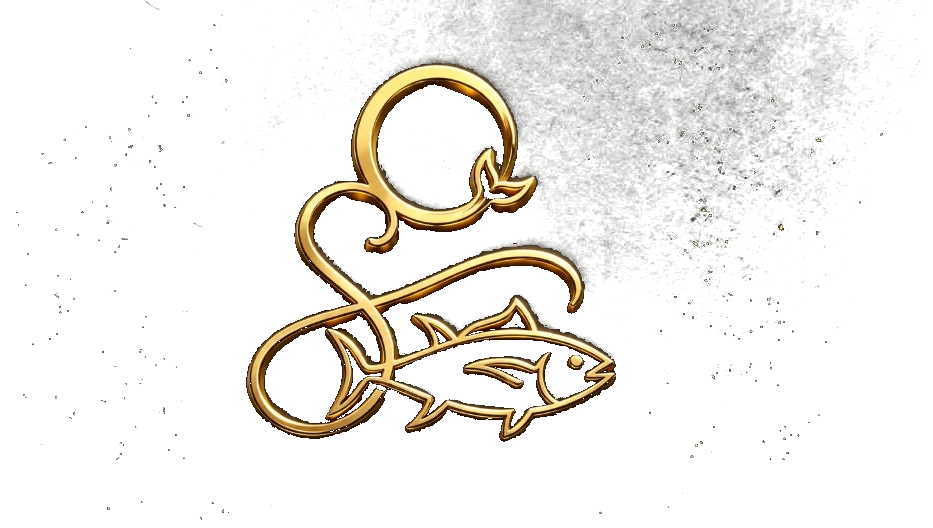
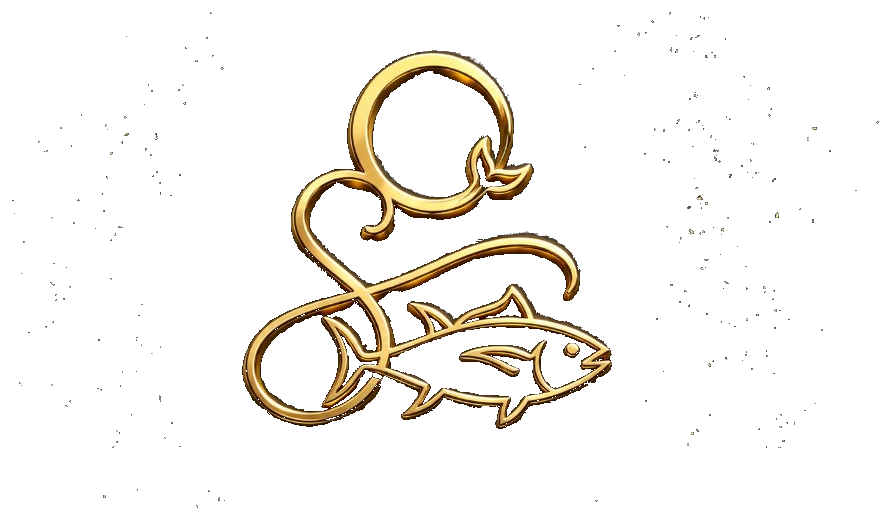
Clear black plate from the mark and add rising gold sparks.
Keep the 3D orbit, use gold-only glow, and let soft sparks lift off the emblem.

Changed region(s): [[0.2424, 0.0, 0.9091, 0.8372], [0.8182, 0.4031, 0.8485, 0.4341], [0.7879, 0.4961, 0.8182, 0.5271]]

diff --git a/src/app/globals.css b/src/app/globals.css
@@ -110,11 +110,13 @@ body {
   height: var(--mark-h);
   background: transparent;
   transform-style: preserve-3d;
+  overflow: visible;
   animation: brand-mark-orbit 6.4s cubic-bezier(0.45, 0.05, 0.55, 0.95) infinite;
+  /* Gold glow only — no black plate / dark blob */
   filter:
-    drop-shadow(0 14px 22px rgba(0, 0, 0, 0.58))
-    drop-shadow(0 4px 0 rgba(70, 40, 5, 0.42))
-    drop-shadow(0 0 26px rgba(224, 168, 64, 0.48));
+    drop-shadow(0 0 10px rgba(224, 168, 64, 0.45))
+    drop-shadow(0 0 22px rgba(255, 190, 80, 0.28))
+    drop-shadow(0 6px 14px rgba(196, 140, 40, 0.22));
 }
 
 .brand-mark--header .brand-mark__stage {
@@ -145,9 +147,9 @@ body {
   --mark-w: clamp(7.5rem, 20vw, 11rem);
   --mark-h: clamp(4.2rem, 11.2vw, 6.2rem);
   filter:
-    drop-shadow(0 16px 30px rgba(0, 0, 0, 0.55))
-    drop-shadow(0 3px 0 rgba(90, 55, 10, 0.4))
-    drop-shadow(0 0 34px rgba(224, 168, 64, 0.45));
+    drop-shadow(0 0 14px rgba(224, 168, 64, 0.5))
+    drop-shadow(0 0 28px rgba(255, 190, 80, 0.32))
+    drop-shadow(0 8px 18px rgba(196, 140, 40, 0.24));
 }
 
 .brand-mark__img,
@@ -165,14 +167,15 @@ body {
 .brand-mark__img {
   z-index: 4;
   transform: translateZ(28px);
-  filter: contrast(1.08) saturate(1.12) brightness(1.06);
+  filter: contrast(1.08) saturate(1.12) brightness(1.08);
 }
 
 .brand-mark__depth {
   background: transparent center / contain no-repeat
-    url("/brand/sushi-dor-mark.png");
-  filter: brightness(0.32) sepia(0.6) hue-rotate(-8deg) saturate(1.5);
-  opacity: 0.95;
+    url("/brand/sushi-dor-mark.png?v=5");
+  /* Warm gold extrusion — not black */
+  filter: brightness(0.72) sepia(0.85) saturate(1.6) hue-rotate(-6deg);
+  opacity: 0.85;
 }
 
 .brand-mark__depth--1 {
@@ -183,14 +186,7 @@ body {
 .brand-mark__depth--2 {
   z-index: 2;
   transform: translate3d(1.6px, 3.2px, 9px);
-  opacity: 0.8;
-}
-
-.brand-mark__depth--3 {
-  z-index: 1;
-  transform: translate3d(2.4px, 5px, 0);
-  opacity: 0.62;
-  filter: brightness(0.16) blur(0.35px);
+  opacity: 0.65;
 }
 
 .brand-mark__specular {
@@ -209,8 +205,8 @@ body {
   mix-blend-mode: soft-light;
   transform: translateZ(22px);
   animation: brand-mark-shine 3.4s ease-in-out infinite;
-  -webkit-mask-image: url("/brand/sushi-dor-mark.png");
-  mask-image: url("/brand/sushi-dor-mark.png");
+  -webkit-mask-image: url("/brand/sushi-dor-mark.png?v=5");
+  mask-image: url("/brand/sushi-dor-mark.png?v=5");
   -webkit-mask-size: contain;
   mask-size: contain;
   -webkit-mask-repeat: no-repeat;
@@ -219,21 +215,27 @@ body {
   mask-position: center;
 }
 
-.brand-mark__rim {
+.brand-mark__sparks {
   pointer-events: none;
   position: absolute;
-  inset: 8% 4%;
-  z-index: 0;
-  border-radius: 40%;
-  background: radial-gradient(
-    ellipse at 50% 55%,
-    rgba(224, 168, 64, 0.38) 0%,
-    rgba(224, 168, 64, 0.12) 42%,
-    transparent 72%
-  );
-  filter: blur(12px);
-  transform: translateZ(-8px) scale(1.05);
-  animation: brand-mark-glow 2.8s ease-in-out infinite alternate;
+  inset: -35% -20%;
+  z-index: 6;
+  overflow: visible;
+}
+
+.brand-mark__spark {
+  position: absolute;
+  width: 0.22rem;
+  height: 0.22rem;
+  border-radius: 50%;
+  background: radial-gradient(circle, #fff6d0 0%, #ffc86a 55%, transparent 75%);
+  box-shadow:
+    0 0 0.35rem rgba(255, 210, 120, 0.95),
+    0 0 0.7rem rgba(255, 160, 40, 0.45);
+  opacity: 0;
+  animation-name: brand-mark-spark;
+  animation-timing-function: cubic-bezier(0.22, 0.6, 0.3, 1);
+  animation-iteration-count: infinite;
 }
 
 @keyframes brand-mark-orbit {
@@ -264,22 +266,28 @@ body {
   }
 }
 
-@keyframes brand-mark-glow {
-  from {
-    opacity: 0.5;
-    transform: translateZ(-8px) scale(0.96);
+@keyframes brand-mark-spark {
+  0% {
+    opacity: 0;
+    transform: translate3d(0, 0.2rem, 0) scale(0.4);
   }
-  to {
+  18% {
     opacity: 1;
-    transform: translateZ(-8px) scale(1.1);
+  }
+  100% {
+    opacity: 0;
+    transform: translate3d(0.15rem, -1.4rem, 0) scale(0.15);
   }
 }
 
 @media (prefers-reduced-motion: reduce) {
   .brand-mark__stage,
   .brand-mark__specular,
-  .brand-mark__rim {
+  .brand-mark__spark {
     animation: none;
+  }
+  .brand-mark__sparks {
+    display: none;
   }
   .brand-mark__stage {
     transform: rotateY(-12deg) rotateX(8deg);

diff --git a/src/components/brand/BrandMark.tsx b/src/components/brand/BrandMark.tsx
@@ -3,8 +3,23 @@ type BrandMarkProps = {
   className?: string;
 };
 
+const SPARKS = [
+  { id: 1, left: "18%", bottom: "35%", delay: "0s", dur: "2.8s" },
+  { id: 2, left: "32%", bottom: "48%", delay: "0.4s", dur: "3.2s" },
+  { id: 3, left: "48%", bottom: "58%", delay: "0.9s", dur: "2.6s" },
+  { id: 4, left: "62%", bottom: "42%", delay: "1.3s", dur: "3.4s" },
+  { id: 5, left: "74%", bottom: "30%", delay: "0.2s", dur: "2.9s" },
+  { id: 6, left: "28%", bottom: "22%", delay: "1.7s", dur: "3.1s" },
+  { id: 7, left: "55%", bottom: "28%", delay: "2.1s", dur: "2.7s" },
+  { id: 8, left: "40%", bottom: "62%", delay: "0.7s", dur: "3.5s" },
+  { id: 9, left: "68%", bottom: "55%", delay: "1.5s", dur: "3.0s" },
+  { id: 10, left: "22%", bottom: "50%", delay: "2.4s", dur: "2.5s" },
+  { id: 11, left: "80%", bottom: "40%", delay: "1.1s", dur: "3.3s" },
+  { id: 12, left: "12%", bottom: "38%", delay: "1.9s", dur: "2.8s" },
+] as const;
+
 /**
- * Professional 3D gold fish mark — extruded depth layers, orbit, and light sweep.
+ * Transparent 3D gold mark — orbit animation + sparks rising from the emblem.
  */
 export function BrandMark({ size = "header", className = "" }: BrandMarkProps) {
   return (
@@ -14,21 +29,32 @@ export function BrandMark({ size = "header", className = "" }: BrandMarkProps) {
     >
       <span className="brand-mark__perspective">
         <span className="brand-mark__stage">
-          {/* Extrusion stack for solid 3D depth */}
-          <span className="brand-mark__depth brand-mark__depth--3" />
           <span className="brand-mark__depth brand-mark__depth--2" />
           <span className="brand-mark__depth brand-mark__depth--1" />
           <img
-            src="/brand/sushi-dor-mark.png"
+            src="/brand/sushi-dor-mark.png?v=5"
             alt=""
             className="brand-mark__img"
-            width={933}
-            height={528}
+            width={891}
+            height={516}
             decoding="async"
             fetchPriority="high"
           />
           <span className="brand-mark__specular" />
-          <span className="brand-mark__rim" />
+          <span className="brand-mark__sparks">
+            {SPARKS.map((s) => (
+              <span
+                key={s.id}
+                className="brand-mark__spark"
+                style={{
+                  left: s.left,
+                  bottom: s.bottom,
+                  animationDelay: s.delay,
+                  animationDuration: s.dur,
+                }}
+              />
+            ))}
+          </span>
         </span>
       </span>
     </span>
